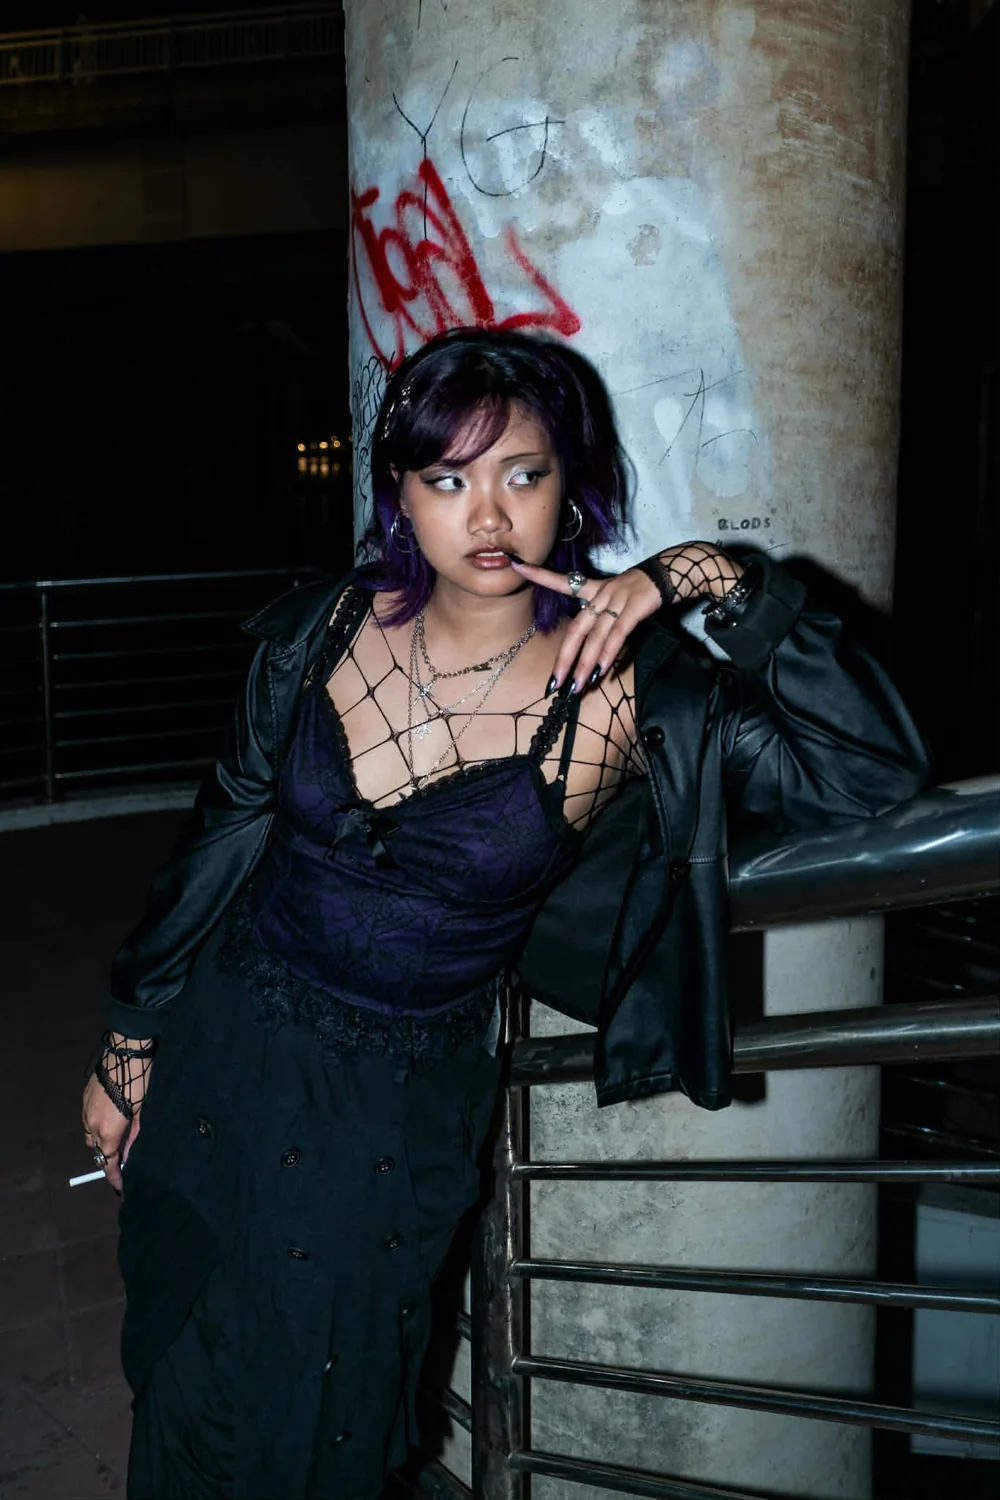
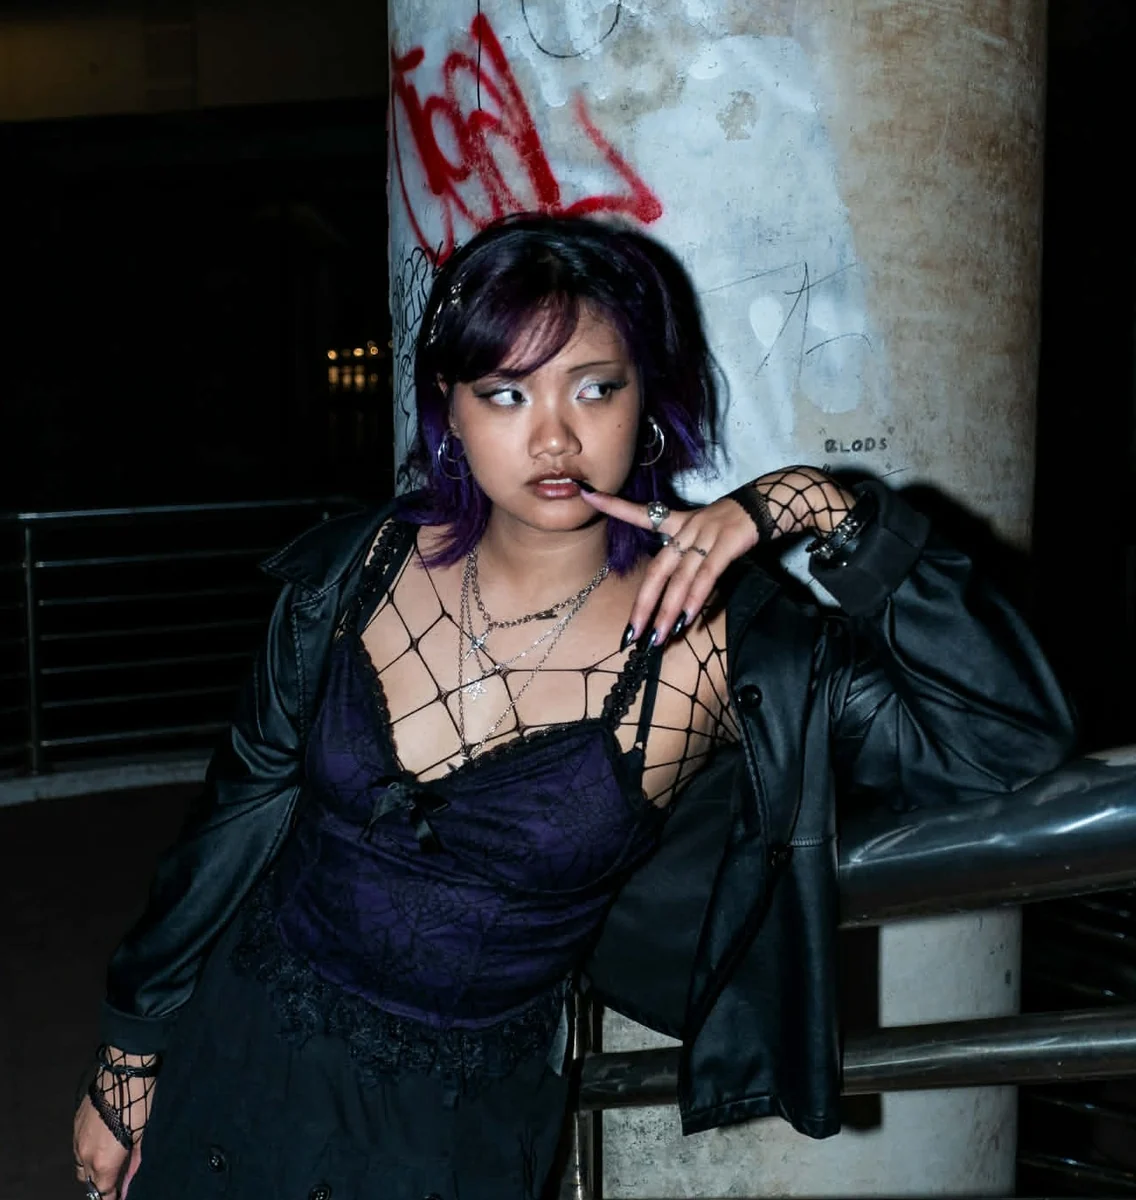
feat: swap in the final portrait and rebalance the about layout for it
The new crop is 0.95 where the old one was 0.67, so the slot it used to
sit in would have discarded 45% of its width and cut both arms off.

Widened the portrait column and pulled the gutters in from 70px to 48px.
Those gutters exist only to give the floating badges somewhere to hang,
and every pixel of them is width the photo does not get -- so the badge
offsets came down to match, which also puts more of each badge over the
frame edge rather than beside it.

The visible crop was checked against the file rather than eyeballed:
source rect 171..964 of 1136, which keeps the pose, both sides of the
jacket, and the backdrop. Mobile renders it uncropped.

diff --git a/components/AboutMe.tsx b/components/AboutMe.tsx
@@ -13,32 +13,34 @@ import ToolBadge from "./ToolBadge";
  * pixels so they can't creep inward when the photo scales.
  */
 const FLOATERS = [
-  // Each offset is at least the badge's own width, so they sit fully clear of
-  // the subject rather than on her. Verified at 0% overlap.
-  { i: 0, size: 64, style: { top: "6%", left: -70 }, dur: "7s", delay: "0s" }, // Ps
-  { i: 2, size: 58, style: { top: "38%", left: -64 }, dur: "9s", delay: "-2s" }, // Pr
-  { i: 1, size: 54, style: { top: "70%", left: -60 }, dur: "11s", delay: "-4s" }, // Ai
-  { i: 3, size: 64, style: { top: "14%", right: -70 }, dur: "8.5s", delay: "-1s" }, // Ae
-  { i: 4, size: 58, style: { top: "46%", right: -64 }, dur: "10s", delay: "-3s" }, // Ca
-  { i: 5, size: 54, style: { top: "76%", right: -60 }, dur: "9.5s", delay: "-5s" }, // Fg
+  // Offsets straddle the photo edge — roughly three-quarters of each badge hangs
+  // outside, the rest overlaps the frame. GUTTER below is set to the largest of
+  // these, so the badges never push the page wider than the column.
+  { i: 0, size: 64, style: { top: "6%", left: -48 }, dur: "7s", delay: "0s" }, // Ps
+  { i: 2, size: 58, style: { top: "38%", left: -44 }, dur: "9s", delay: "-2s" }, // Pr
+  { i: 1, size: 54, style: { top: "70%", left: -41 }, dur: "11s", delay: "-4s" }, // Ai
+  { i: 3, size: 64, style: { top: "14%", right: -48 }, dur: "8.5s", delay: "-1s" }, // Ae
+  { i: 4, size: 58, style: { top: "46%", right: -44 }, dur: "10s", delay: "-3s" }, // Ca
+  { i: 5, size: 54, style: { top: "76%", right: -41 }, dur: "9.5s", delay: "-5s" }, // Fg
   // Py and Js are named in the list below rather than floated — eight badges
   // around one portrait is a crowd, and the code tools are not design tools.
 ] as const;
 
 export default function AboutMe() {
   return (
-    <div className="grid items-stretch gap-12 lg:grid-cols-[minmax(0,1fr)_minmax(0,1.05fr)] lg:gap-16">
+    <div className="grid items-stretch gap-12 lg:grid-cols-[minmax(0,1.35fr)_minmax(0,1fr)] lg:gap-14">
       {/* Portrait + floating toolkit */}
-      {/* Gutters are sized to the widest badge offset (70px), so the floating
-          toolkit straddles the photo edge without pushing the page wider. */}
-      <div className="mx-auto w-full max-w-[300px] px-0 sm:max-w-[520px] sm:px-[70px]">
+      {/* Gutters equal the widest badge offset (48px), so the floating toolkit
+          straddles the photo edge without pushing the page wider. Every pixel
+          here is width the photo does not get, so it is kept tight. */}
+      <div className="mx-auto w-full max-w-[300px] px-0 sm:max-w-[660px] sm:px-12">
         <div className="relative h-full">
           {/* eslint-disable-next-line @next/next/no-img-element */}
           <img
             src="/work/lana-portrait.webp"
             alt="Lana Denise Huertas"
-            width={1000}
-            height={1500}
+            width={1136}
+            height={1200}
             className="block h-full w-full object-cover object-top ring-2 ring-maize/60"
           />
 
